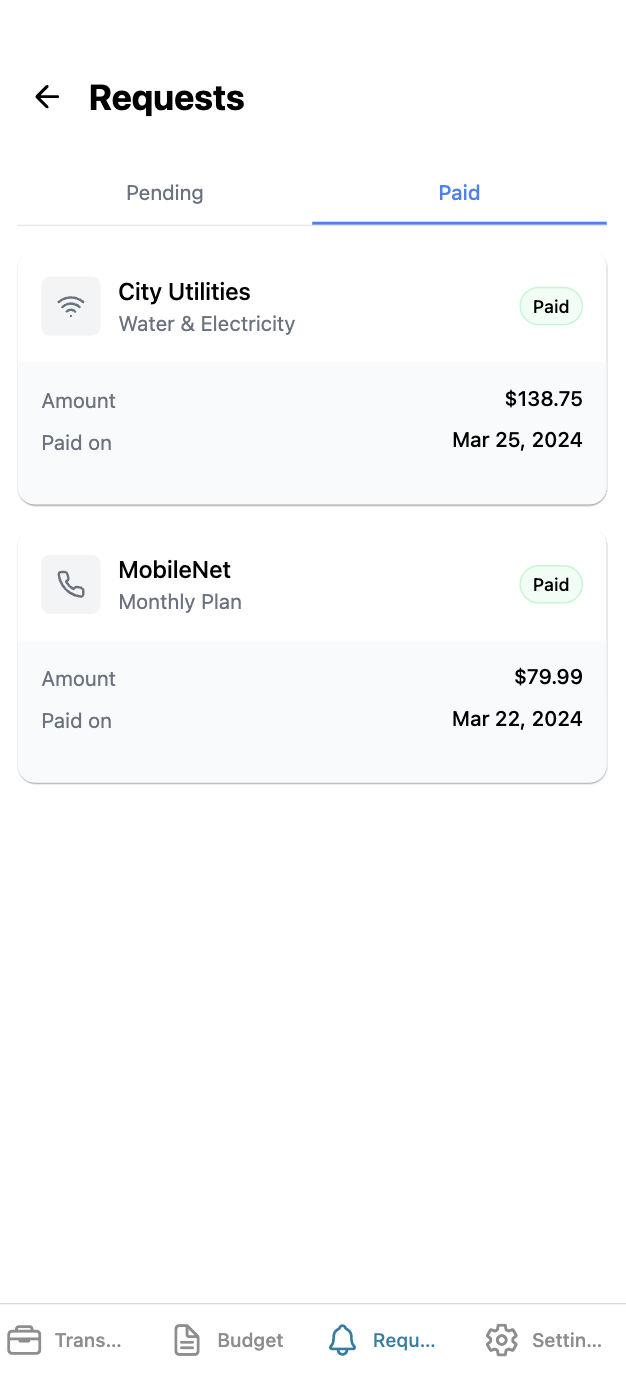
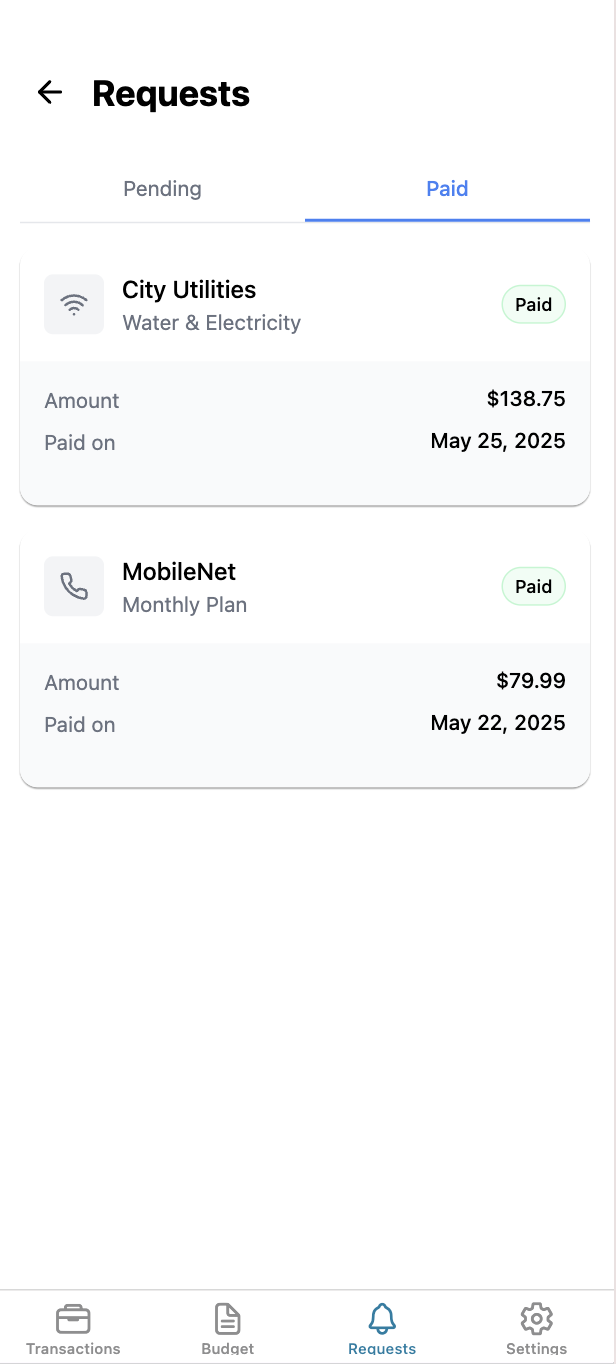
updated requests and its screenshots

diff --git a/app/(tabs)/(Requests)/requests.tsx b/app/(tabs)/(Requests)/requests.tsx
@@ -169,7 +169,7 @@ export default function RequestsView() {
       status: "Paid",
       statusVariant: "paid",
       amount: "$138.75",
-      date: "June 25, 2025",
+      date: "May 25, 2025",
       dateLabel: "Paid on",
     },
     {
@@ -181,7 +181,7 @@ export default function RequestsView() {
       status: "Paid",
       statusVariant: "paid",
       amount: "$79.99",
-      date: "June 22, 2025",
+      date: "May 22, 2025",
       dateLabel: "Paid on",
     },
   ];
